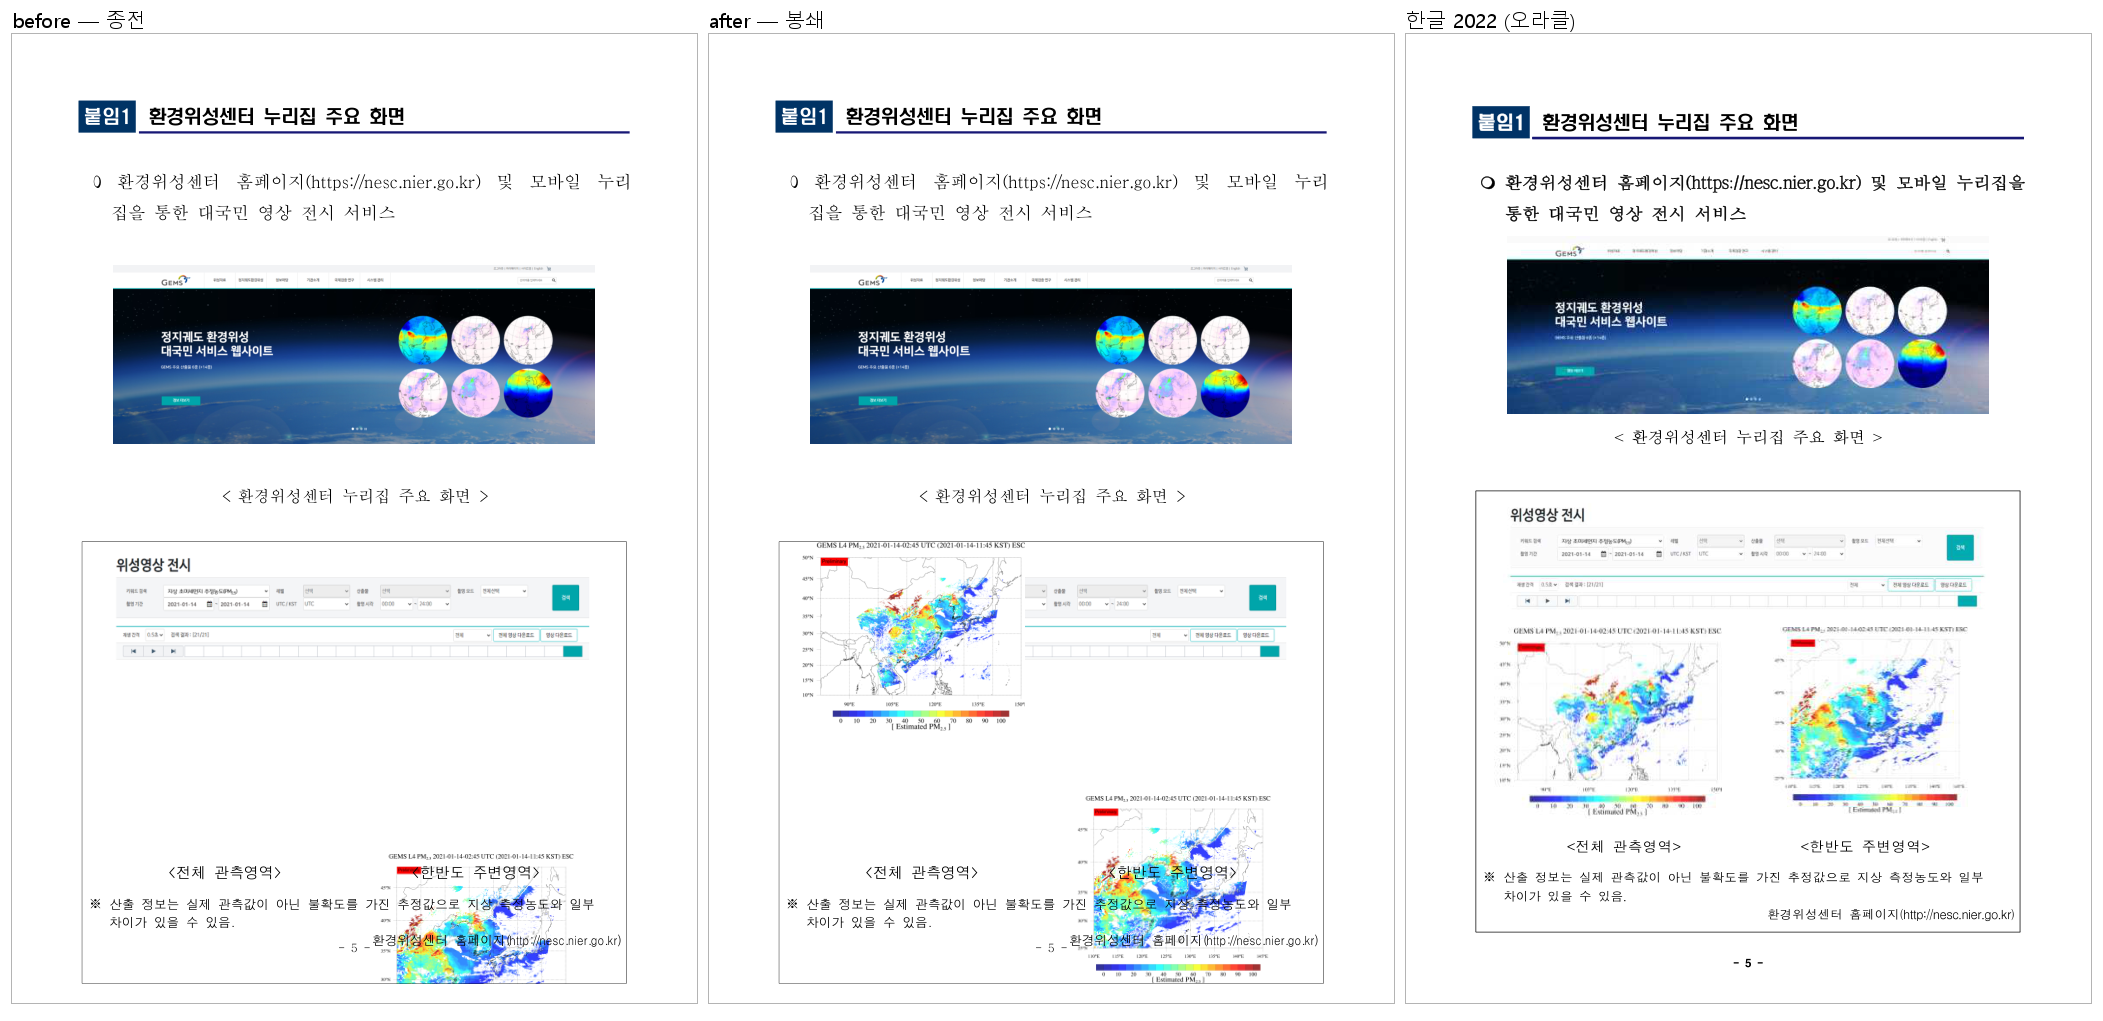
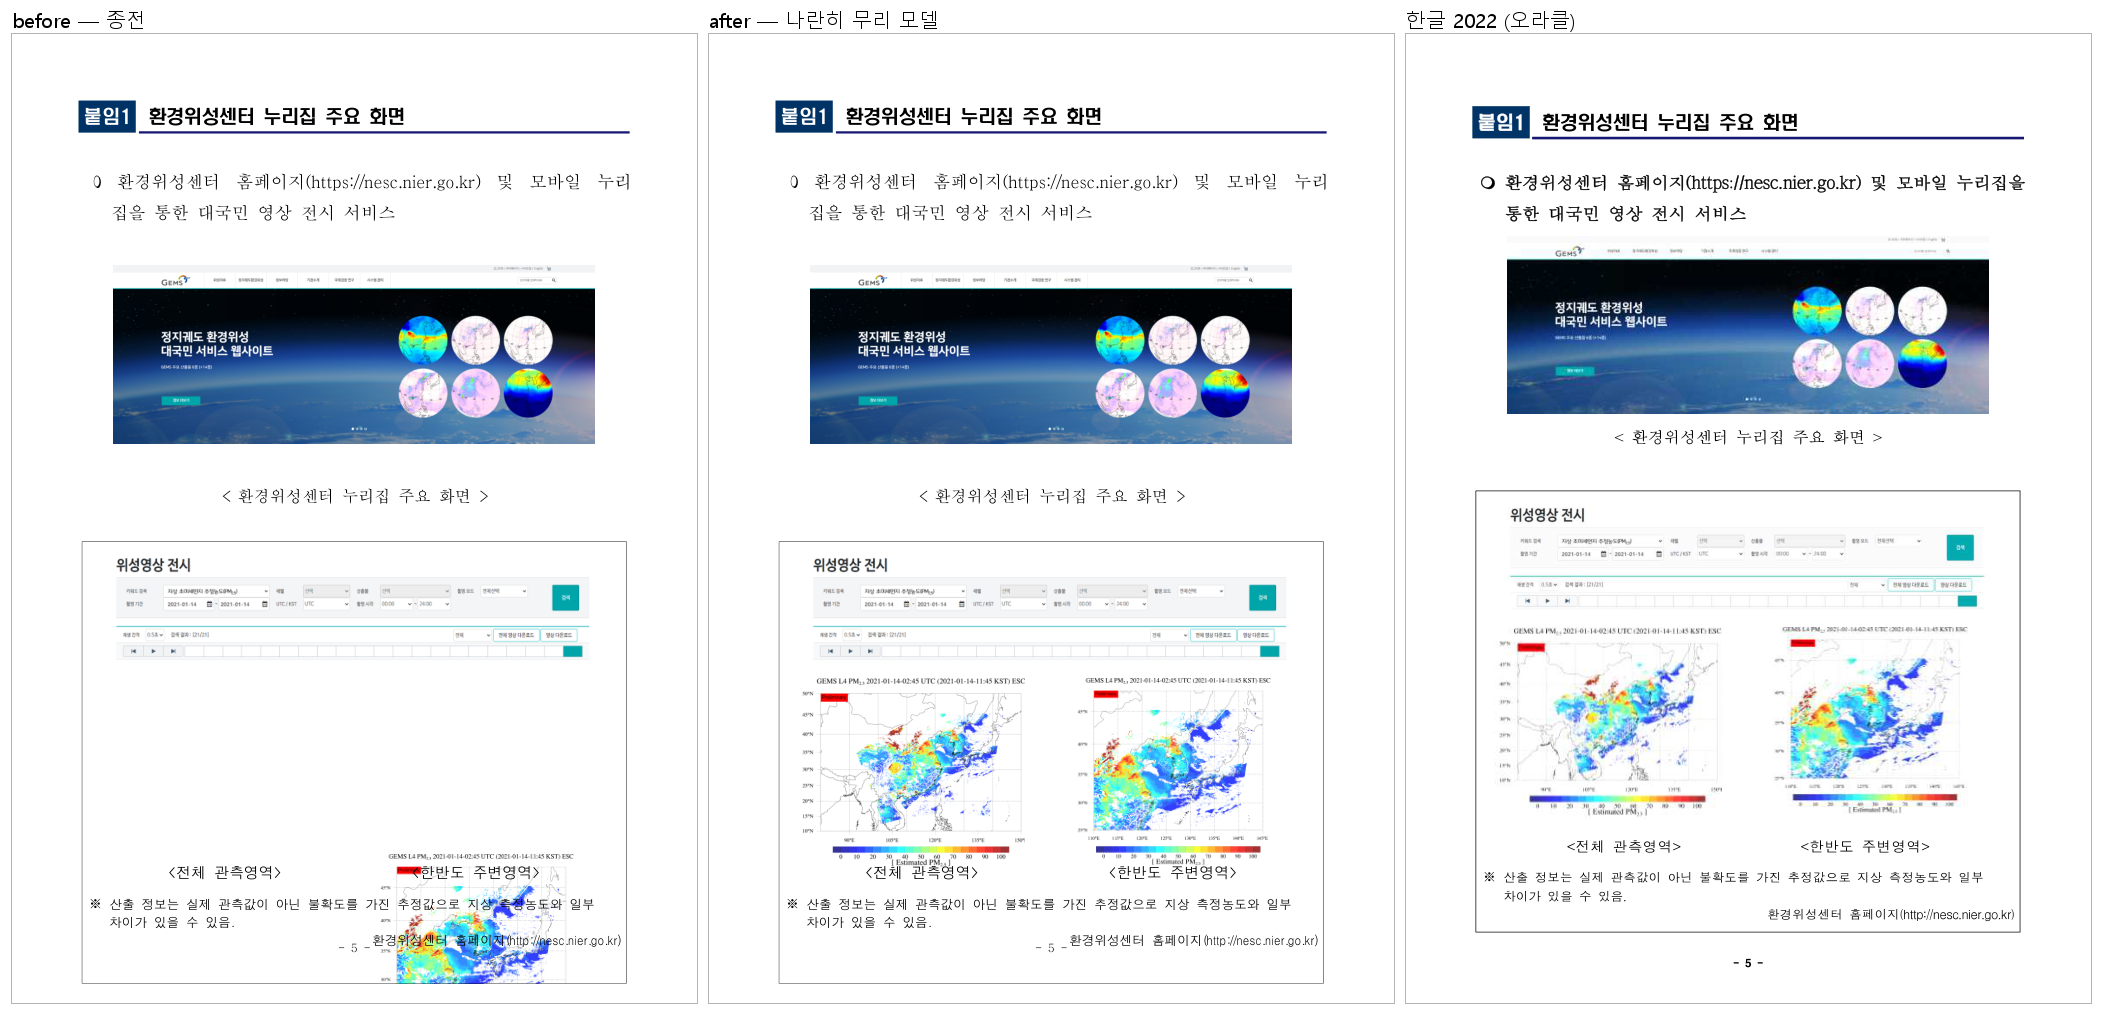
수정: 한 문단의 float 그림들은 나란히 놓이는 한 무리다 (#6494)
앞 커밋의 봉쇄를 근인 정정으로 대체한다 — 봉쇄는 안전망으로 남긴다.

쪽 전체가 25~44pt 드리프트해 있어 절대 좌표로는 모델이 안 갈렸다. 표 상단 기준 상대로
재니 갈렸다(표 높이는 383.59 vs 384.09 로 맞고 상단만 44.1pt 어긋난다).

  한글 표 상단 397.36  지도 ①·② 516.04  →  상대 118.68pt (둘 다)
  rhwp para_y_before_compose            →  상대 118.9pt   ← 0.22pt 일치

모델: 한 문단이 vert=Para 인 비-TAC float 을 둘 이상 달고 있으면 그것들은 나란히
놓이는 한 무리이고, 칸 valign(#2071)이나 저장 vpos 가 아니라 문단 앵커
(para_y_before_compose)에 함께 걸린다. 음수 세로 오프셋은 버린다 — 그 값은 변위된
문단 위치를 기준으로 저장된 보정이라, 앵커를 변위 전으로 되돌린 뒤 또 빼면 이중
보정이 된다.

종전에는 둘이 서로 다른 갈래를 타 찢어졌다 — 하나는 displaced_empty_line_para 로 칸
상단에 붙은 뒤 -185.8pt 를 먹어 칸 위로 246px 나가 보이지 않게 됐고, 다른 하나는
#2071 칸 valign 강제로 칸 아래·용지 밖 51.4pt 로 갔다.

  표 상단 기준 상대   종전      수정 후    한글 2022
  지도 ①            -194.45    108.78     118.68
  지도 ②             272.10    118.88     118.68
  off-canvas              1         0

지도 ②는 0.20pt 로 맞는다. 지도 ①의 남은 9.9pt 는 크롭 미적용이라는 별개 결함이다 —
노드는 118.9(0.22pt 일치)인데 크롭 사각형으로 확대만 하고 자르지 않아 그려진 이미지가
상자 위로 10.1pt 삐져나온다(폭도 1.335배 = 1/크롭비율). 별도 이슈로 분리한다.

(cherry picked from commit 5560b8bbc0ad33b5d7f9b04b0d24a7c6d4cb29a3)

Changed region(s): [[0.3709, 0.5162, 0.6182, 0.9716], [0.3709, 0.0, 0.4018, 0.0304]]

diff --git a/src/renderer/layout/table_layout.rs b/src/renderer/layout/table_layout.rs
@@ -5446,7 +5446,36 @@ impl LayoutEngine {
                                     .line_segs
                                     .first()
                                     .is_some_and(|seg| seg.vertical_pos > 0);
-                            let anchor_y = if displaced_empty_line_para {
+                            // [#6494] **한 문단이 float 그림을 둘 이상 달고 있으면 그것들은
+                            // 나란히 놓이는 한 무리**다 — 칸 valign 이나 저장 vpos 가 아니라
+                            // 문단 앵커(`para_y_before_compose`)에 함께 걸린다.
+                            //
+                            // 156489219 5쪽 `p[1]`(빈 문단, 그림 2장)이 그 형상이다. 한글 2022
+                            // 오라클은 두 장을 **소수점까지 같은 y=516.04**(표 상단 기준 상대
+                            // 118.68pt)에 나란히 놓는다. 우리 `para_y_before_compose` 는 상대
+                            // 118.9pt 로 **0.22pt** 안에서 그 값이다.
+                            //
+                            // 종전에는 둘이 서로 다른 갈래를 타 찢어졌다 — 하나는
+                            // `displaced_empty_line_para` 로 칸 상단에 붙은 뒤 음수 오프셋
+                            // −185.8pt 를 먹어 칸 위로 246px 나가 보이지 않게 됐고, 다른 하나는
+                            // #2071 칸 valign 강제로 칸 아래(용지 밖 51.4pt)로 갔다.
+                            //
+                            // 음수 오프셋을 버리는 이유: 그 값은 **변위된** 문단 위치를 기준으로
+                            // 저장된 보정이라, 앵커를 변위 전으로 되돌린 뒤 다시 빼면 이중
+                            // 보정이 된다.
+                            let side_by_side_float_group = para
+                                .controls
+                                .iter()
+                                .filter(|c| {
+                                    matches!(c, crate::model::control::Control::Picture(p)
+                                        if !p.common.treat_as_char
+                                            && matches!(p.common.vert_rel_to, VertRelTo::Para))
+                                })
+                                .count()
+                                > 1;
+                            let anchor_y = if side_by_side_float_group {
+                                para_y_before_compose
+                            } else if displaced_empty_line_para {
                                 // Square 포함 모든 비인라인 그림 — 원점은 문단 시작.
                                 content_cell_y + pad_top
                             } else if non_inline_para && !top_and_bottom_para {
@@ -5508,8 +5537,16 @@ impl LayoutEngine {
                                     .max(0.0),
                                 ..inner_area
                             };
+                            // [#6494] 나란히 무리에서는 음수 세로 오프셋을 버린다 — 위 주석 참조.
+                            let grouped_common = (side_by_side_float_group
+                                && signed_hwpunit(pic.common.vertical_offset) < 0)
+                                .then(|| {
+                                    let mut c = pic.common.clone();
+                                    c.vertical_offset = 0;
+                                    c
+                                });
                             let (pic_x, pic_y) = self.compute_object_position(
-                                &pic.common,
+                                grouped_common.as_ref().unwrap_or(&pic.common),
                                 pic_w,
                                 pic_h,
                                 &cell_area,
@@ -5547,6 +5584,8 @@ impl LayoutEngine {
                                 && pic.common.flow_with_text
                                 && !unrestricted_take_place_cell_float
                                 && !detached_from_inline_table_flow
+                                // [#6494] 나란히 무리는 칸 valign 이 아니라 문단 앵커를 따른다.
+                                && !side_by_side_float_group
                             {
                                 let v_off = hwpunit_to_px(
                                     signed_hwpunit(pic.common.vertical_offset),

diff --git a/tests/cases/issue_6494_cell_float_stays_in_its_cell.rs b/tests/cases/issue_6494_cell_float_stays_in_its_cell.rs
@@ -1,7 +1,8 @@
 //! [#6494] 칸 앵커 그림은 자기 칸 밖으로 나가지 않는다.
 //!
-//! **⚠ 이것은 물리적 봉쇄이지 근인 정정이 아니다.** 앵커 계약 자체는 아직 확정되지
-//! 않았다 — 이슈에 후보표를 남겼다. 봉쇄는 그 모델이 정해질 때까지의 안전망이다.
+//! **근인은 앵커 계약이었다.** 한 문단이 float 그림을 둘 이상 달고 있으면 그것들은
+//! **나란히 놓이는 한 무리**이고, 칸 valign 이나 저장 vpos 가 아니라 문단 앵커
+//! (`para_y_before_compose`)에 함께 걸린다. 칸 봉쇄는 그 위에 남긴 안전망이다.
 //!
 //! **증상.** `156489219` 5쪽에서 한 문단에 든 float 그림 두 장이 서로 반대로 찢어진다.
 //! 한 장은 칸 **위로 246px** 올라가 앞 그림 자리에 겹쳐 보이지 않게 되고, 다른 한 장은
@@ -22,14 +23,20 @@
 //!
 //! **오라클 — 한글 2022** (저장 버전 `hancom-office-2018` 미설치 → 최근접 설치본,
 //! `producer=Hancom PDF 1.3.0.547`). 한글은 두 장을 **소수점까지 같은 `y=516.04`** 에
-//! 나란히 놓는다. 그 정렬 모델은 이 PR 범위 밖이다.
+//! 나란히 놓는다.
 //!
-//! | 5쪽 | 종전 | **봉쇄 후** | 한글 2022 |
+//! **쪽 전체가 25~44pt 드리프트해 있어 절대 좌표로는 모델이 안 갈린다.** 표 상단 기준
+//! 상대로 재면 갈린다 — 표 높이는 `383.59` vs `384.09` 로 맞고 상단만 `44.1pt` 어긋난다.
+//!
+//! | 5쪽 (표 상단 기준 상대) | 종전 | **수정 후** | 한글 2022 |
 //! |---|---:|---:|---:|
-//! | 지도 ① y | 247.05 | **431.40** | 516.04 |
-//! | 지도 ② y | 713.60 | **663.18** | 516.04 |
-//! | 지도 ② 아래끝 | **893.31** (용지 841.9 밖) | **842.89** | 678.22 |
+//! | 지도 ① | −194.45 | **108.78** | 118.68 |
+//! | 지도 ② | 272.10 | **118.88** | 118.68 |
 //! | `layout-anomaly` off-canvas | 1 | **0** | — |
+//!
+//! 지도 ②는 `0.20pt` 로 맞는다. 지도 ①의 남은 `9.9pt` 는 **크롭 미적용**이라는 별개
+//! 결함이다 — 노드는 `118.9`(0.22pt 일치)인데, 크롭 사각형으로 확대만 하고 자르지 않아
+//! 그려진 이미지가 상자 위로 `10.1pt` 삐져나온다(폭도 `1.335배 = 1/크롭비율`).
 #![cfg(not(target_arch = "wasm32"))]
 
 use std::path::{Path, PathBuf};
@@ -148,6 +155,33 @@ fn cell_anchored_pictures_stay_inside_their_cell() {
             y + h
         );
     }
+}
+
+/// 나란히 무리의 두 그림이 **같은 세로 자리**에 놓인다.
+///
+/// 한글 2022 는 둘을 소수점까지 같은 `y=516.04` 에 둔다. 종전에는 `247.05` 와 `713.60`
+/// 으로 `466pt` 벌어져 있었다.
+///
+/// 노드 기준으로 비교한다 — 지도 ①의 그려진 상자는 크롭 미적용 때문에 `10.1pt` 위로
+/// 삐져나오므로(별개 결함) 허용치를 `12pt` 로 둔다.
+#[test]
+fn side_by_side_floats_share_one_vertical_band() {
+    let Some((_, _, images)) = page5_cell_and_images() else {
+        eprintln!("[#6494] 재현 문서가 없어 건너뛴다: {DOC}");
+        return;
+    };
+    let tops: Vec<f64> = images.iter().map(|(y, _)| *y).collect();
+    let lo = tops.iter().cloned().fold(f64::INFINITY, f64::min);
+    let hi = tops.iter().cloned().fold(f64::NEG_INFINITY, f64::max);
+    // 위성영상 전시 그림은 무리 위에 따로 있으므로, 무리 두 장만 본다 —
+    // 가장 아래 두 장이 지도 쌍이다.
+    let mut sorted = tops.clone();
+    sorted.sort_by(|a, b| a.partial_cmp(b).unwrap());
+    let pair = &sorted[sorted.len() - 2..];
+    assert!(
+        (pair[1] - pair[0]).abs() <= 16.0,
+        "나란히 무리의 두 그림이 같은 밴드에 있어야 한다: {pair:?} (전체 {lo:.1}..{hi:.1})"
+    );
 }
 
 /// `layout-anomaly` 의 용지 밖 신고가 0 이다.
